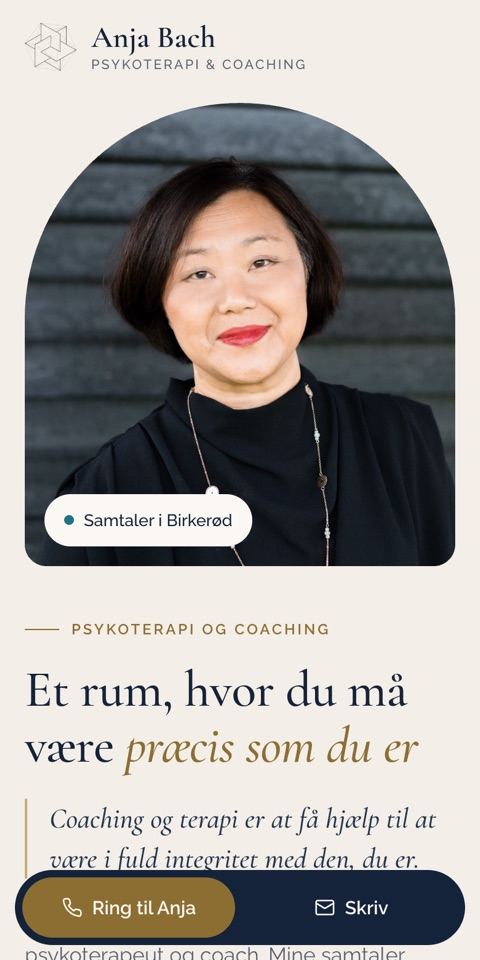
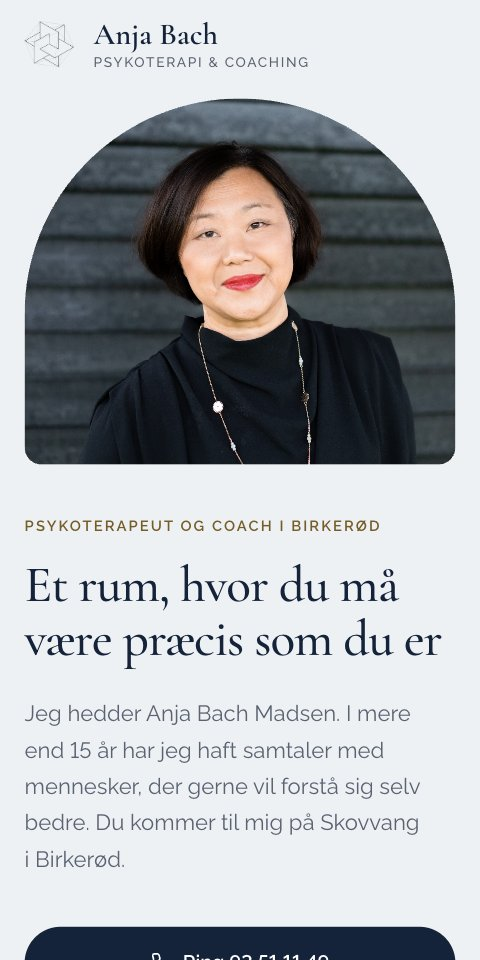
Nye udkast i telefonerne: Anja, Ove og Julius

diff --git a/index.html b/index.html
@@ -270,11 +270,11 @@ footer a { color: var(--on-dark); }
         <span class="hero-note">Eller ring på <a href="tel:+4551866163">51 86 61 63</a></span>
       </div>
       <div class="phones">
-        <figure class="phone side l"><img src="brand/billeder/eksempel-tomrer.jpg" alt="Eksempel: forside for en tømrer i Hørsholm" width="480" height="960"></figure>
+        <figure class="phone side l"><img src="brand/billeder/eksempel-ove.jpg" alt="Udkast til en IT-arkitekt i Birkerød" width="480" height="960"></figure>
         <figure class="phone main"><img src="brand/billeder/eksempel-anja.jpg" alt="Udkast til en psykoterapeut i Birkerød" width="480" height="960"></figure>
-        <figure class="phone side r"><img src="brand/billeder/eksempel-cafe.jpg" alt="Eksempel: forside for en café i Holte" width="480" height="960"></figure>
+        <figure class="phone side r"><img src="brand/billeder/eksempel-julius.jpg" alt="Udkast til en maler og tatovør i København" width="480" height="960"></figure>
       </div>
-      <p class="phone-cap">I midten: udkast til en psykoterapeut i Birkerød. Tømreren og caféen er eksempler.</p>
+      <p class="phone-cap">Tre rigtige udkast: en psykoterapeut og en IT-arkitekt i Birkerød og en maler i København.</p>
     </div>
   </section>
 
